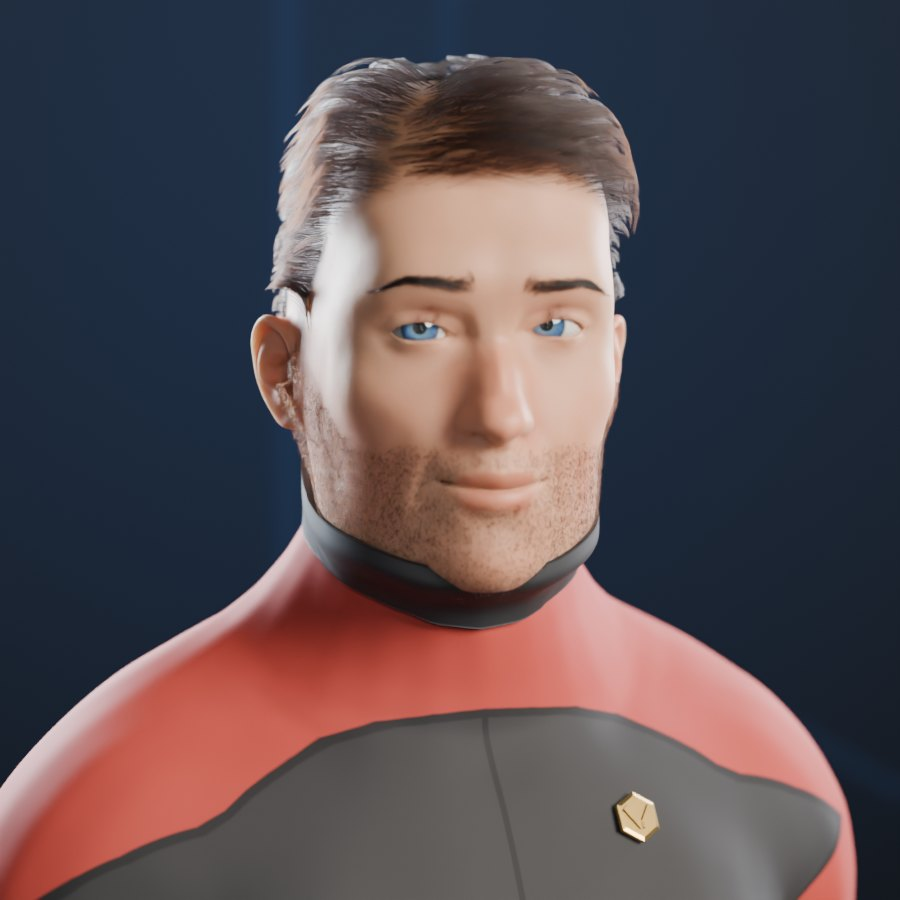
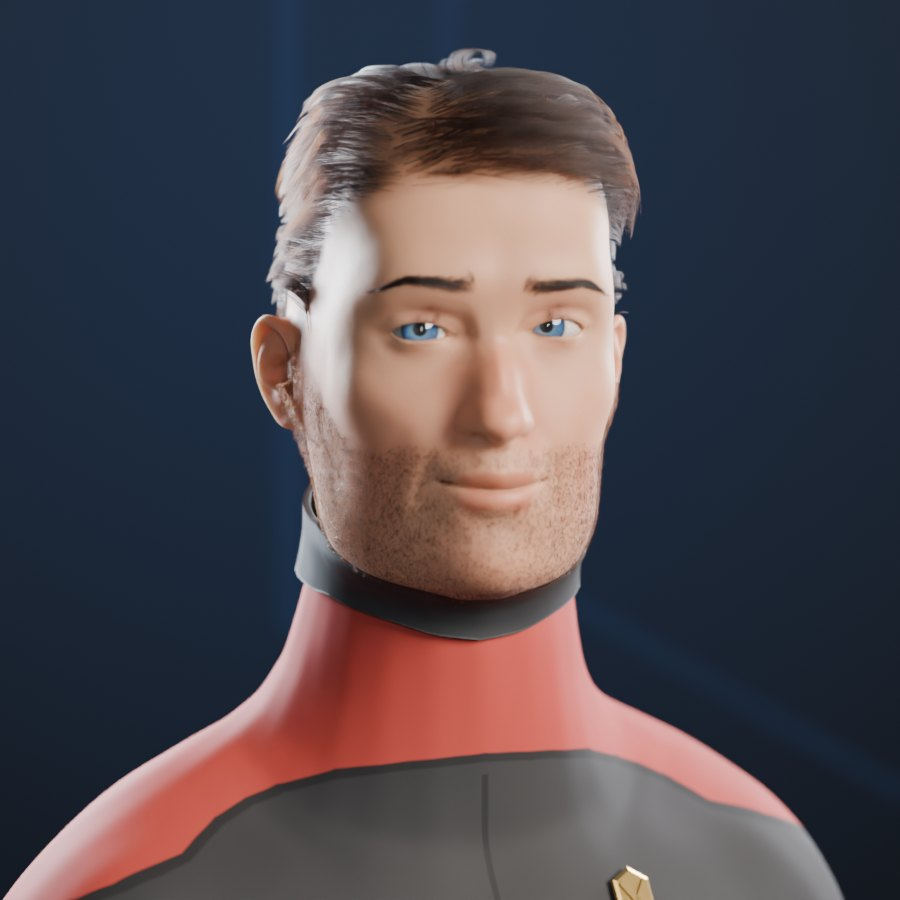
Realistic portraits: longer neck
Claude-Session: https://claude.ai/code/session_01QVhVPAL9PKdtfwepf8LoLq

diff --git a/blender/build_portraits_mh.py b/blender/build_portraits_mh.py
@@ -522,6 +522,9 @@ def person(c):
         if k == strongest and not REALISTIC:
             v *= 1.35
         M.pair(folder, b, lo, hi, v, side, asym)
+    if REALISTIC:   # owner 2026-11-12: "neck is too short"
+        M.pair("neck", "neck-scale-vert", "decr", "incr", 1.0)
+        M.pair("neck", "neck-scale-horiz", "decr", "incr", -0.25 if fem else -0.05)
     if not REALISTIC:
         M.pair("eyes", "eye-scale", "decr", "incr", 0.5 + n(99, 0.12), "lr")
         M.pair("nose", "nose-scale-vert", "decr", "incr", -0.25)
